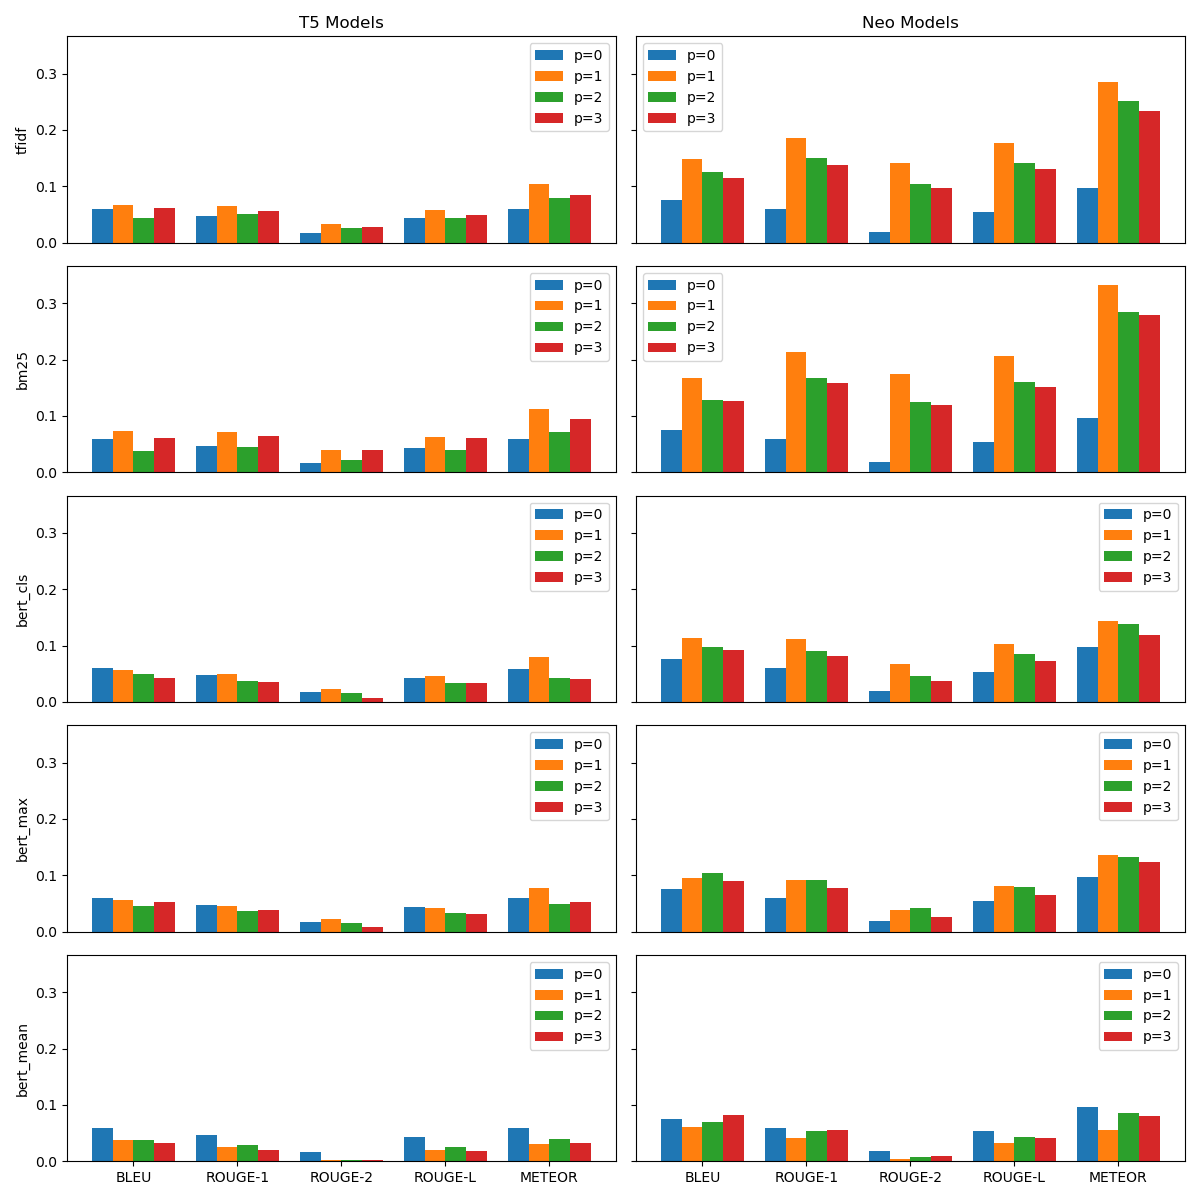
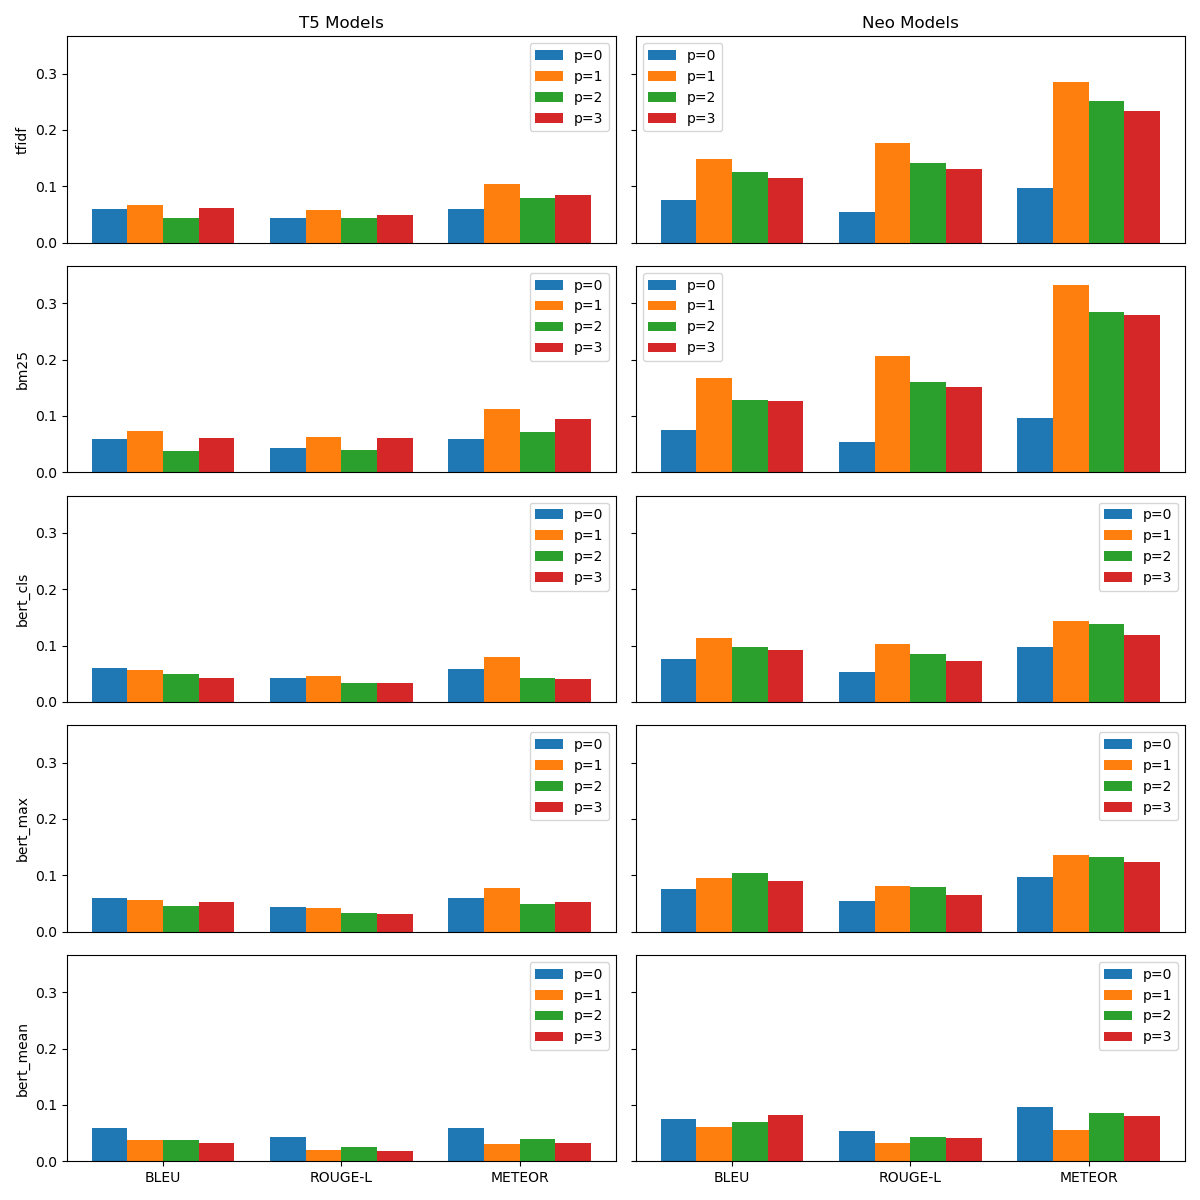
fix plot bug

diff --git a/src/performance_eval/eval_functions.py b/src/performance_eval/eval_functions.py
@@ -117,43 +117,6 @@ def plot_model_scores(results, metrics=None, titles=None, save_path=None):
     
     return fig
 
-def comparison_plot_old(results, metrics=None, titles=None, save_path=None, figsize=(15, 12)):
- 
-    # set up plot (5 rows)
-    fig, axes = plt.subplots(5, 1, figsize=figsize)
-    axes = axes.ravel()
-
-    # get unique model names after stripping _k1, _k2, _k3
-    model_names = list(set(model.replace('_k1', '').replace('_k2', '').replace('_k3', '') for model in results.keys()))
-
-    # y axis max value
-    max_value = max(max(scores.values()) for scores in results.values())
-
-    # Plot each model type in its own panel with all k configurations
-    for idx, model in enumerate(model_names):
-        ax = axes[idx]
-        x_positions = np.arange(len(results[f'{model}_k1'].keys()))
-        width = 0.25  # Width of bars
-        
-        # Plot bars for each k value side by side
-        ax.bar(x_positions - width, results[f'{model}_k1'].values(), width, label='p=1')
-        ax.bar(x_positions, results[f'{model}_k2'].values(), width, label='p=2')
-        ax.bar(x_positions + width, results[f'{model}_k3'].values(), width, label='p=3')
-        
-        ax.set_title(f'{model}')
-        ax.set_xticks(x_positions)
-        ax.set_xticklabels(results[f'{model}_k1'].keys())
-        ax.tick_params(axis='x')
-        ax.set_ylim(0, max_value * 1.1)
-        ax.legend()
-
-    plt.tight_layout()
-    if save_path:
-        plt.savefig(save_path)
-    else:
-        plt.show()
-    return fig
-
 def comparison_plot(results, metrics=None, titles=None, save_path=None, figsize=(12, 12), retriever_order=None):
  
     # set up plot (5 rows, 2 columns)
@@ -162,6 +125,11 @@ def comparison_plot(results, metrics=None, titles=None, save_path=None, figsize=
     # first, the two baselines are called t5_gen_baseline and neo_gen_baseline
     t5_baseline = results["t5_gen_baseline"]
     neo_baseline = results["neo_gen_baseline"]
+
+    # Filter metrics if specified
+    if metrics is not None:
+        t5_baseline = {k: v for k, v in t5_baseline.items() if k in metrics}
+        neo_baseline = {k: v for k, v in neo_baseline.items() if k in metrics}
 
     # get unique retriever names after stripping _k1, _k2, _k3 and model type prefix
     retriever_names = list(set(model.replace('_k1', '').replace('_k2', '').replace('_k3', '').replace('t5_gen_', '').replace('neo_gen_', '') for model in results.keys()))
@@ -175,6 +143,15 @@ def comparison_plot(results, metrics=None, titles=None, save_path=None, figsize=
         if set(retriever_order) != set(retriever_names):
             raise ValueError("retriever_order must contain all and only the retriever names present in results")
         retriever_names = retriever_order
+
+    # Filter results based on specified metrics
+    filtered_results = {}
+    for model, scores in results.items():
+        if metrics is not None:
+            filtered_results[model] = {k: v for k, v in scores.items() if k in metrics}
+        else:
+            filtered_results[model] = scores
+    results = filtered_results
 
     # y axis max value
     max_value = max(max(scores.values()) for scores in results.values())
